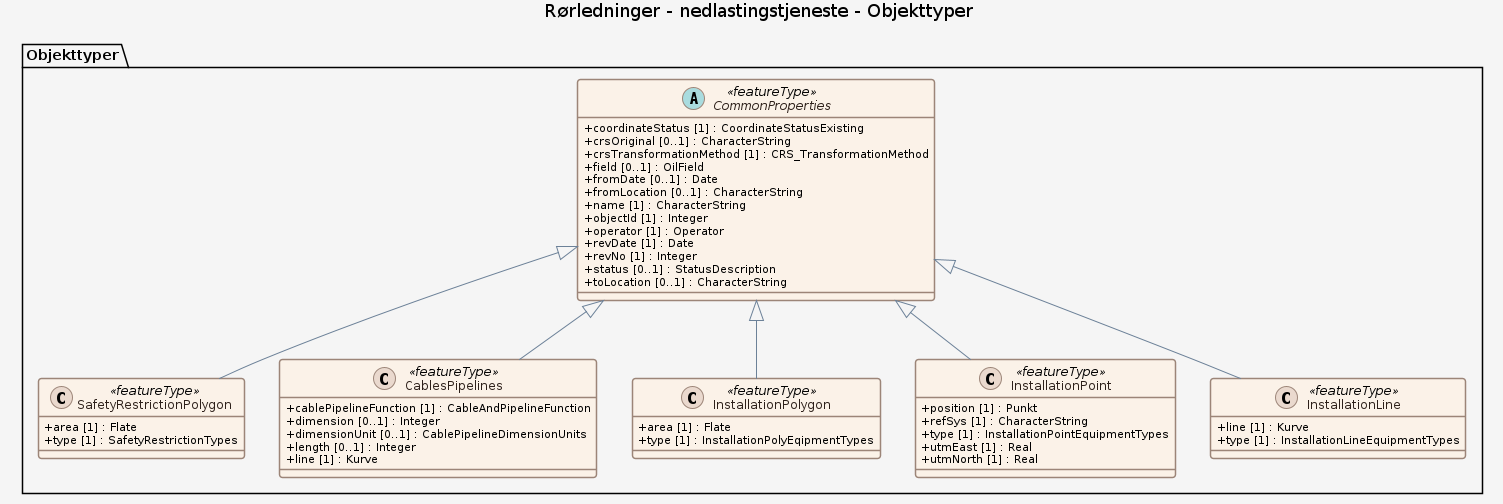
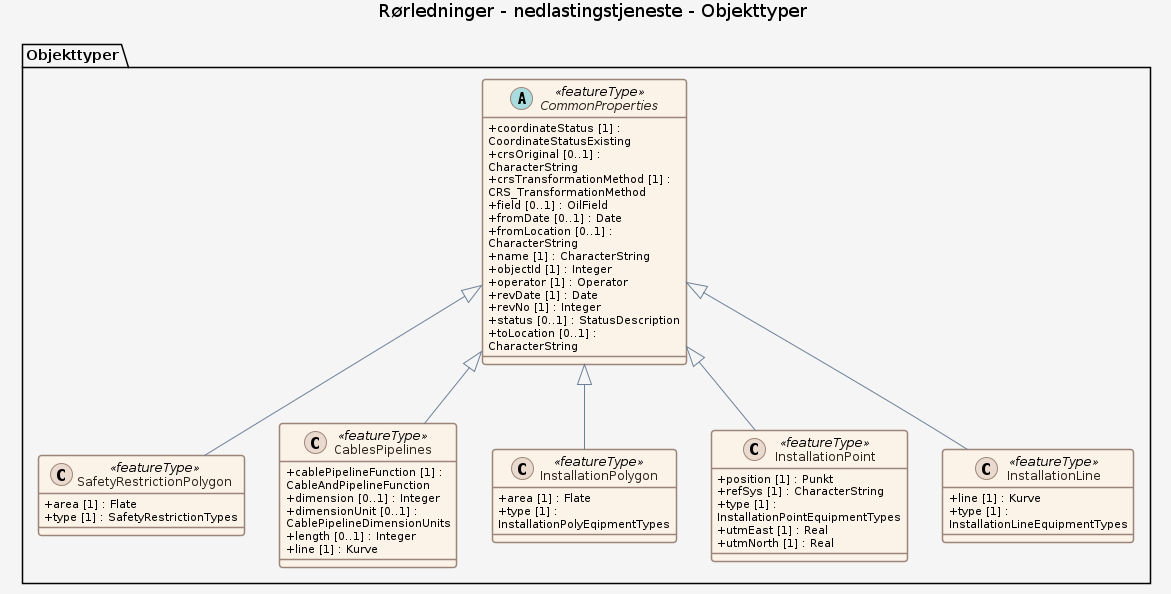
update produktspesifikasjon

diff --git a/produktspesifikasjon/rrledninger-undersjiske/nedlastingstjeneste/objektkatalog.md b/produktspesifikasjon/rrledninger-undersjiske/nedlastingstjeneste/objektkatalog.md
@@ -1,5 +1,7 @@
 ### Datamodell
 
+**Kilde:** [SOSI UML XMI-fil](https://sosi.geonorge.no/svn/SOSI/SOSI Del 3/Sandkasse/ToreFreddy/EPIM_MindsPilot20171020.xml)
+
 <a href="nedlastingstjeneste_feature_catalogue.png" title="Klikk for stor visning"><img src="nedlastingstjeneste_feature_catalogue.png" alt="Datamodell nedlastingstjeneste" style="max-width: 100%; height: auto;" /></a>
 
 #### SafetyRestrictionPolygon

diff --git a/produktspesifikasjon/rrledninger-undersjiske/index.md b/produktspesifikasjon/rrledninger-undersjiske/index.md
@@ -90,7 +90,7 @@ logo: "https://register.geonorge.no/data/organizations/870917732_Sokkeldeparteme
 
 
 
-➡ [Se full datamodell for omfang "nedlastingstjeneste" (diagram og objektkatalog)](nedlastingstjeneste/objektkatalog.html)
+➡ [Se full datamodell for omfang "nedlastingstjeneste" (diagram per pakke og objektkatalog)](nedlastingstjeneste/objektkatalog.html)
 
 ## Referansesystem
 

diff --git a/produktspesifikasjon/rrledninger-undersjiske/scope_catalogues.md b/produktspesifikasjon/rrledninger-undersjiske/scope_catalogues.md
@@ -6,4 +6,4 @@
 
 
 
-➡ [Se full datamodell for omfang "nedlastingstjeneste" (diagram og objektkatalog)](nedlastingstjeneste/objektkatalog.html)
+➡ [Se full datamodell for omfang "nedlastingstjeneste" (diagram per pakke og objektkatalog)](nedlastingstjeneste/objektkatalog.html)
